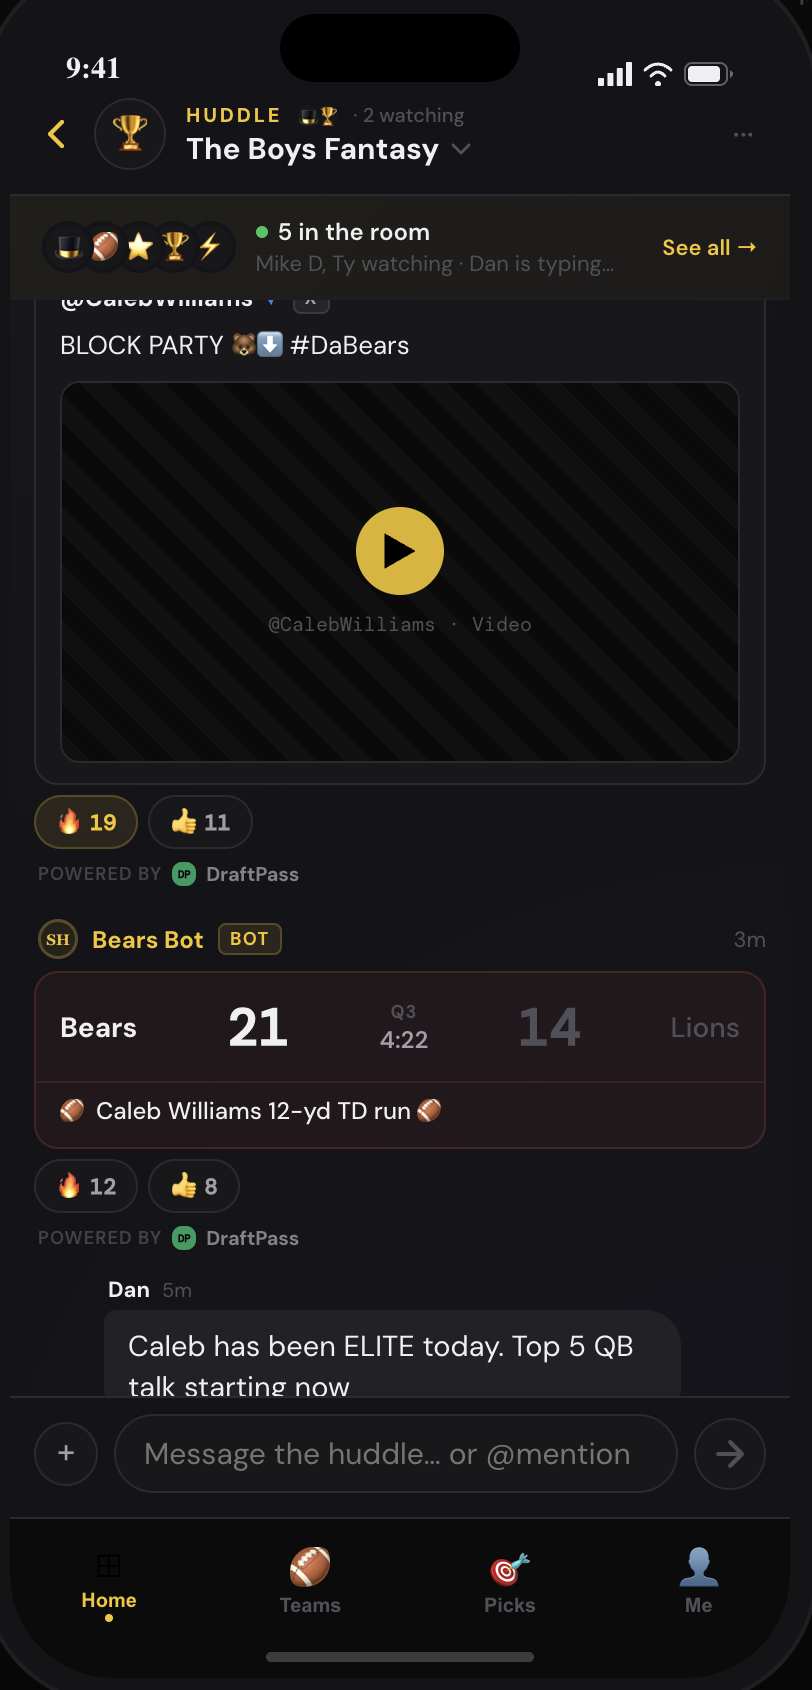
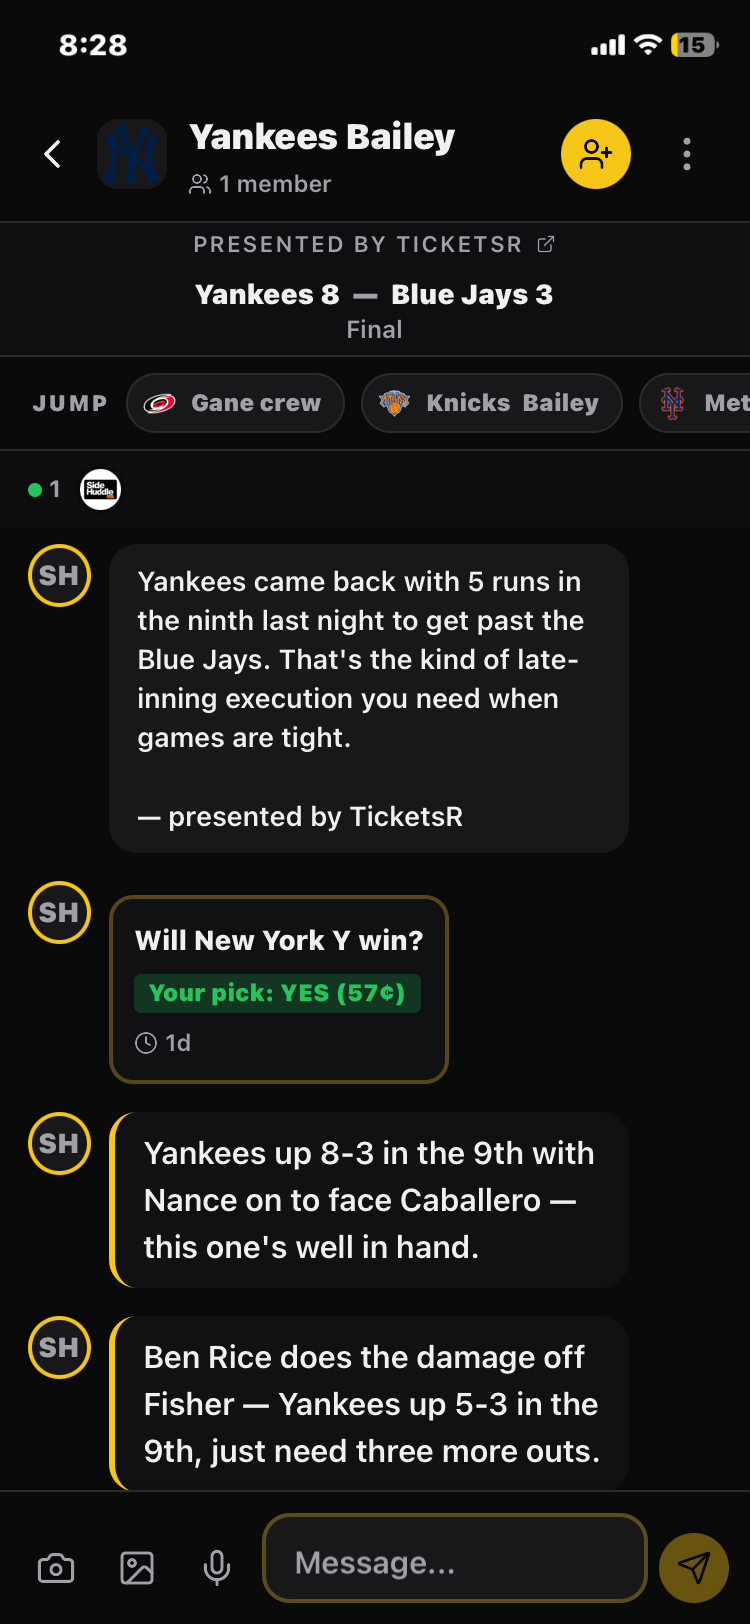
Sponsor page: current app screenshot; remove flaky PWA service worker
- Swapped sponsor-screens/huddle-bot.png to the current gold-bubble app shot
  (shows the PRESENTED BY header + the '— presented by' bot credit).
- Removed VitePWA: its workbox/ajv build dep was flaky AND its precache was
  serving stale pages (old logo/pricing). Marketing site needs no offline SW.

diff --git a/vite.config.ts b/vite.config.ts
@@ -2,7 +2,6 @@ import { defineConfig } from "vite";
 import react from "@vitejs/plugin-react-swc";
 import path from "path";
 import { componentTagger } from "lovable-tagger";
-import { VitePWA } from 'vite-plugin-pwa';
 
 // https://vitejs.dev/config/
 export default defineConfig(({ mode }) => ({
@@ -10,39 +9,12 @@ export default defineConfig(({ mode }) => ({
     host: "::",
     port: 8080,
   },
+  // PWA/service-worker removed: it relied on a flaky workbox/ajv build dep and
+  // its aggressive precache was serving stale pages (old logo, old pricing).
+  // The marketing/landing/invite site doesn't need offline support.
   plugins: [
     react(),
     mode === 'development' && componentTagger(),
-    VitePWA({
-      registerType: 'autoUpdate',
-      workbox: {
-        globPatterns: ['**/*.{js,css,html,ico,png,svg}'],
-        maximumFileSizeToCacheInBytes: 5 * 1024 * 1024,
-      },
-      manifest: {
-        name: 'Side Huddle',
-        short_name: 'Huddle',
-        description: 'AI-powered sports chat',
-        theme_color: '#000000',
-        background_color: '#ffffff',
-        display: 'standalone',
-        orientation: 'portrait',
-        scope: '/',
-        start_url: '/',
-        icons: [
-          {
-            src: '/src/assets/sh-logo-updated.png',
-            sizes: '192x192',
-            type: 'image/png'
-          },
-          {
-            src: '/src/assets/sh-logo-updated.png',
-            sizes: '512x512',
-            type: 'image/png'
-          }
-        ]
-      }
-    })
   ].filter(Boolean),
   resolve: {
     alias: {
